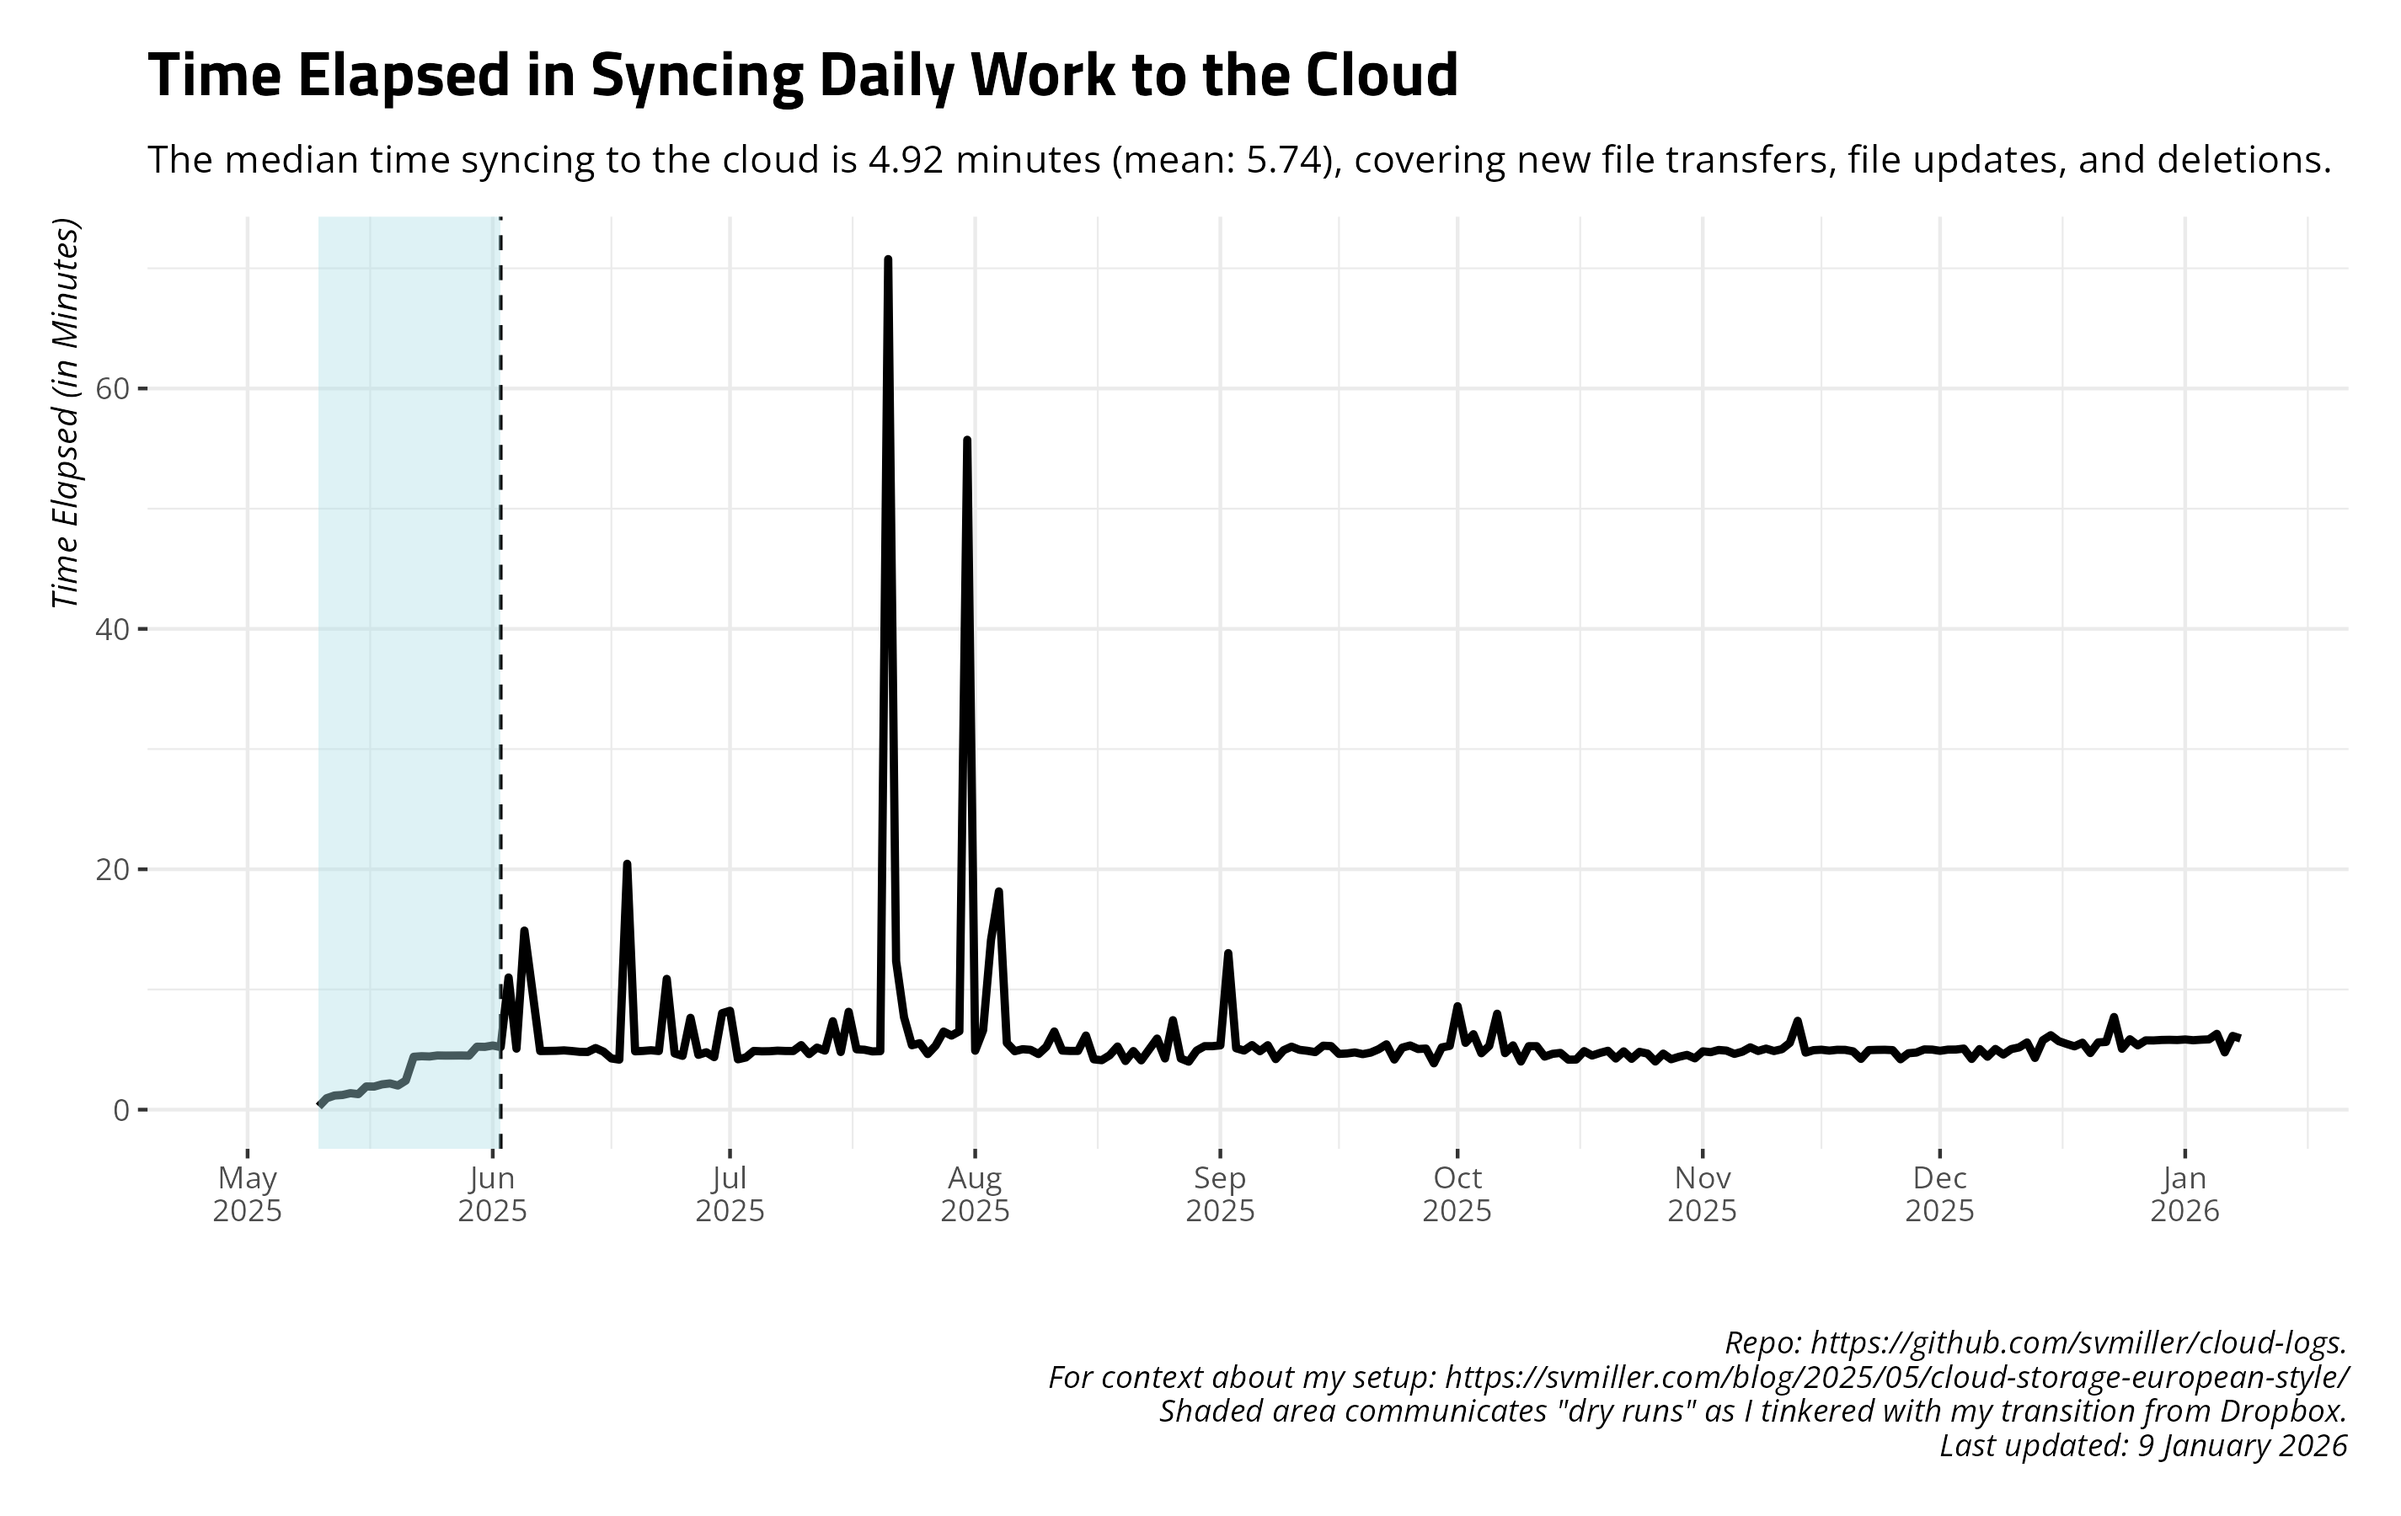
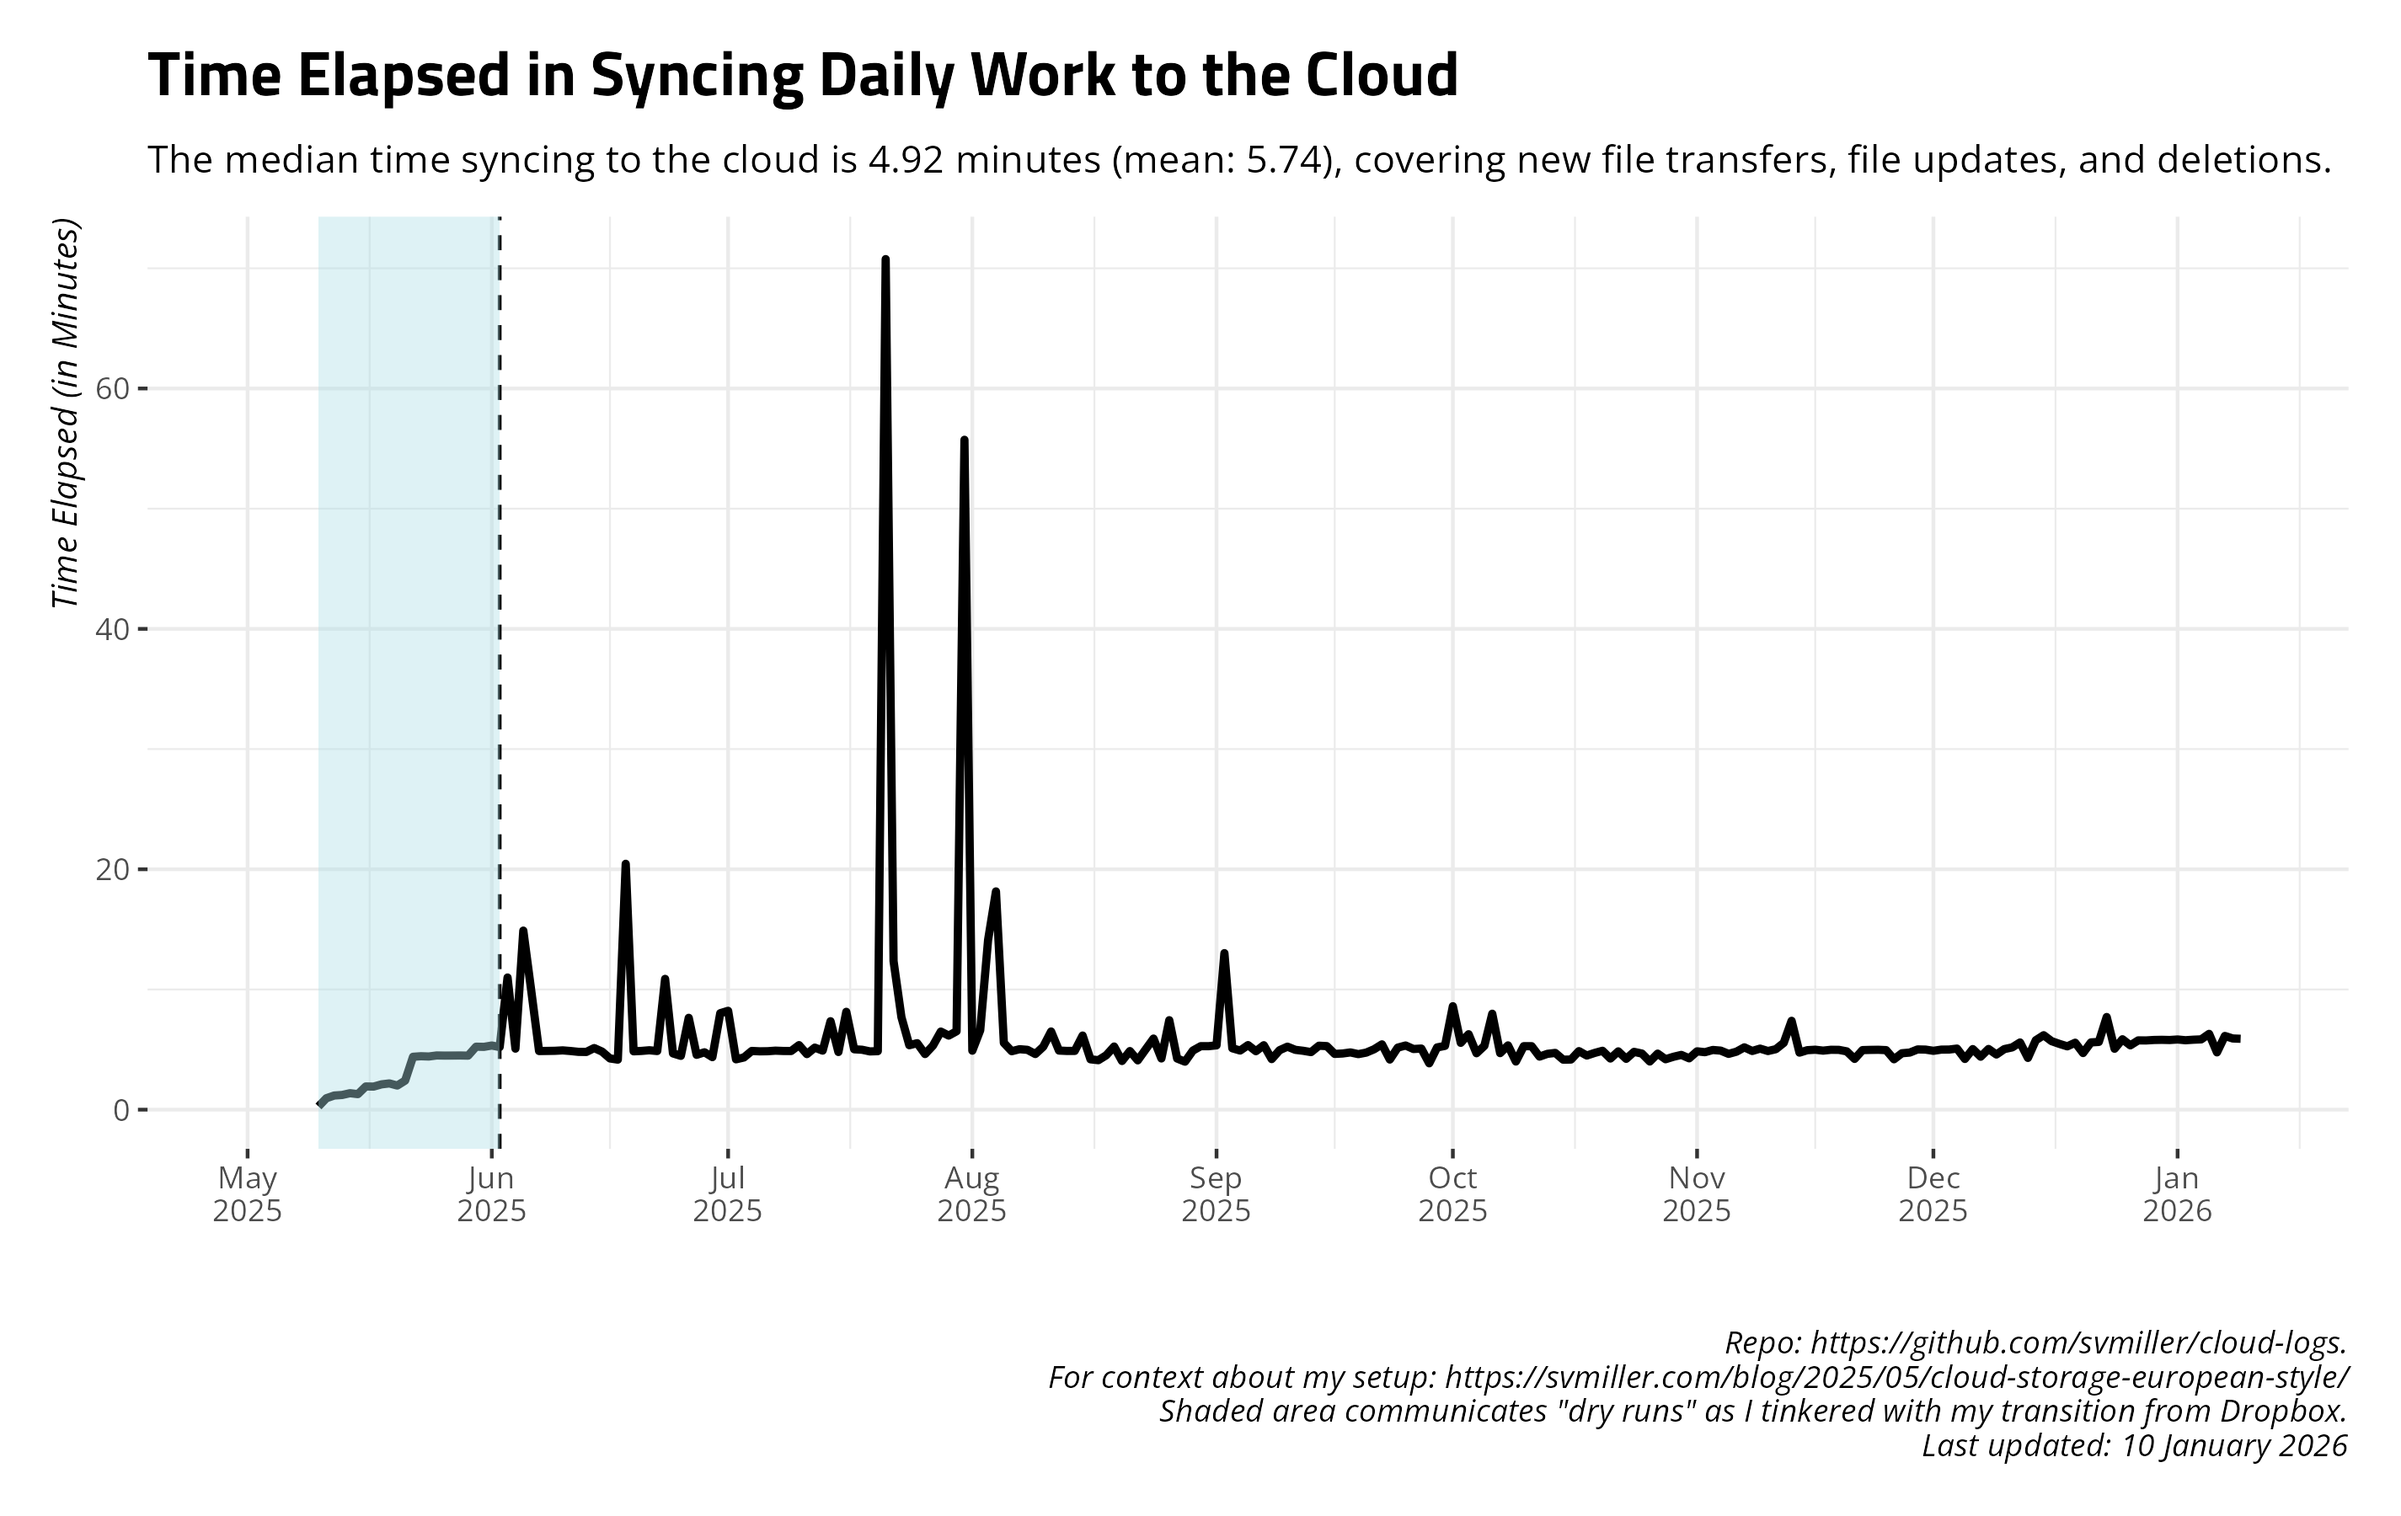
Date: 2026-01-10 09:00:20. Hi mom!

diff --git a/README.md b/README.md
@@ -27,17 +27,17 @@ and uploads to Github.
     #> # A tibble: 14 × 4
     #>    date       ftransfer stransfer   elapsed
     #>    <date>         <dbl> <chr>       <chr>  
-    #>  1 2025-12-26        12 50.808 KiB  5m20.9s
-    #>  2 2025-12-27         0 <NA>        5m45.8s
-    #>  3 2025-12-28         0 <NA>        5m45.5s
-    #>  4 2025-12-29         2 380.681 KiB 5m47.9s
-    #>  5 2025-12-30         0 <NA>        5m48.6s
-    #>  6 2025-12-31         0 <NA>        5m47.7s
-    #>  7 2026-01-01         1 53.897 KiB  5m50.3s
-    #>  8 2026-01-02         1 54.116 KiB  5m46.6s
-    #>  9 2026-01-03        15 11.971 MiB  5m49.2s
-    #> 10 2026-01-04         4 246.865 KiB 5m50.9s
-    #> 11 2026-01-05         4 545.865 KiB 6m18.5s
-    #> 12 2026-01-06        14 126.652 KiB 4m46.0s
-    #> 13 2026-01-07        13 1.440 MiB   6m7.9s 
-    #> 14 2026-01-08         0 <NA>        5m55.4s
+    #>  1 2025-12-27         0 <NA>        5m45.8s
+    #>  2 2025-12-28         0 <NA>        5m45.5s
+    #>  3 2025-12-29         2 380.681 KiB 5m47.9s
+    #>  4 2025-12-30         0 <NA>        5m48.6s
+    #>  5 2025-12-31         0 <NA>        5m47.7s
+    #>  6 2026-01-01         1 53.897 KiB  5m50.3s
+    #>  7 2026-01-02         1 54.116 KiB  5m46.6s
+    #>  8 2026-01-03        15 11.971 MiB  5m49.2s
+    #>  9 2026-01-04         4 246.865 KiB 5m50.9s
+    #> 10 2026-01-05         4 545.865 KiB 6m18.5s
+    #> 11 2026-01-06        14 126.652 KiB 4m46.0s
+    #> 12 2026-01-07        13 1.440 MiB   6m7.9s 
+    #> 13 2026-01-08         0 <NA>        5m55.4s
+    #> 14 2026-01-09        76 3.544 MiB   5m53.8s
